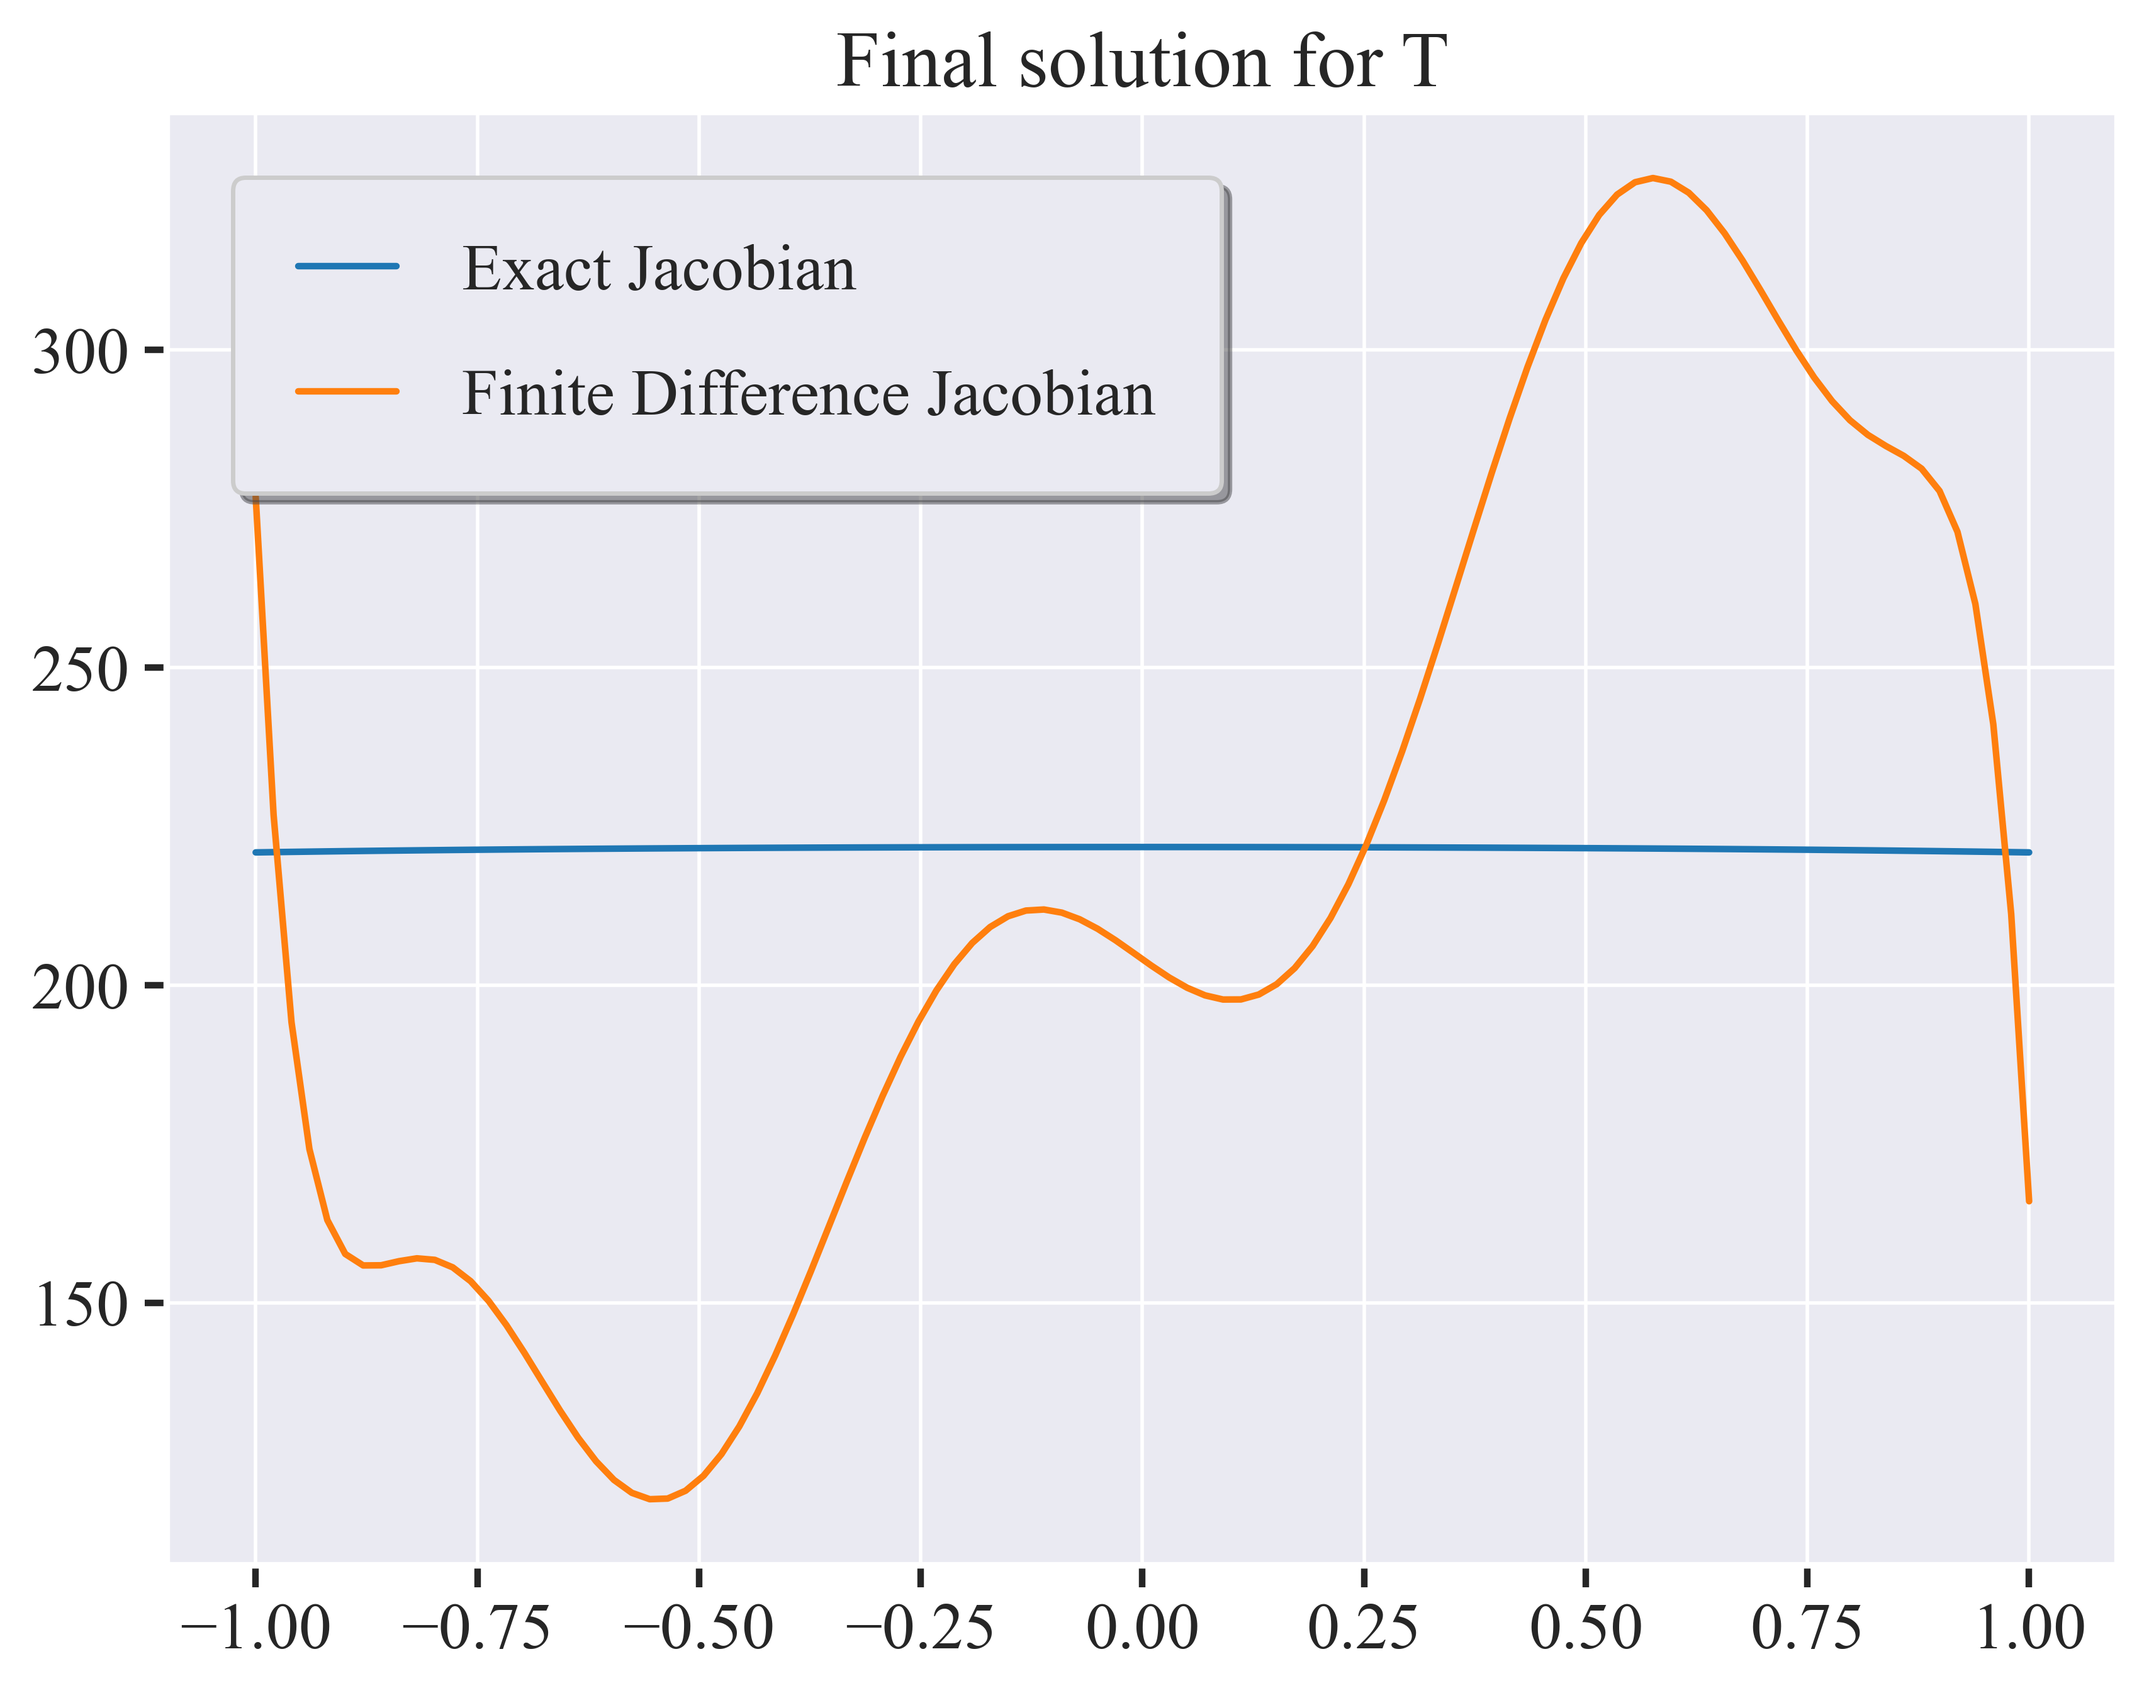
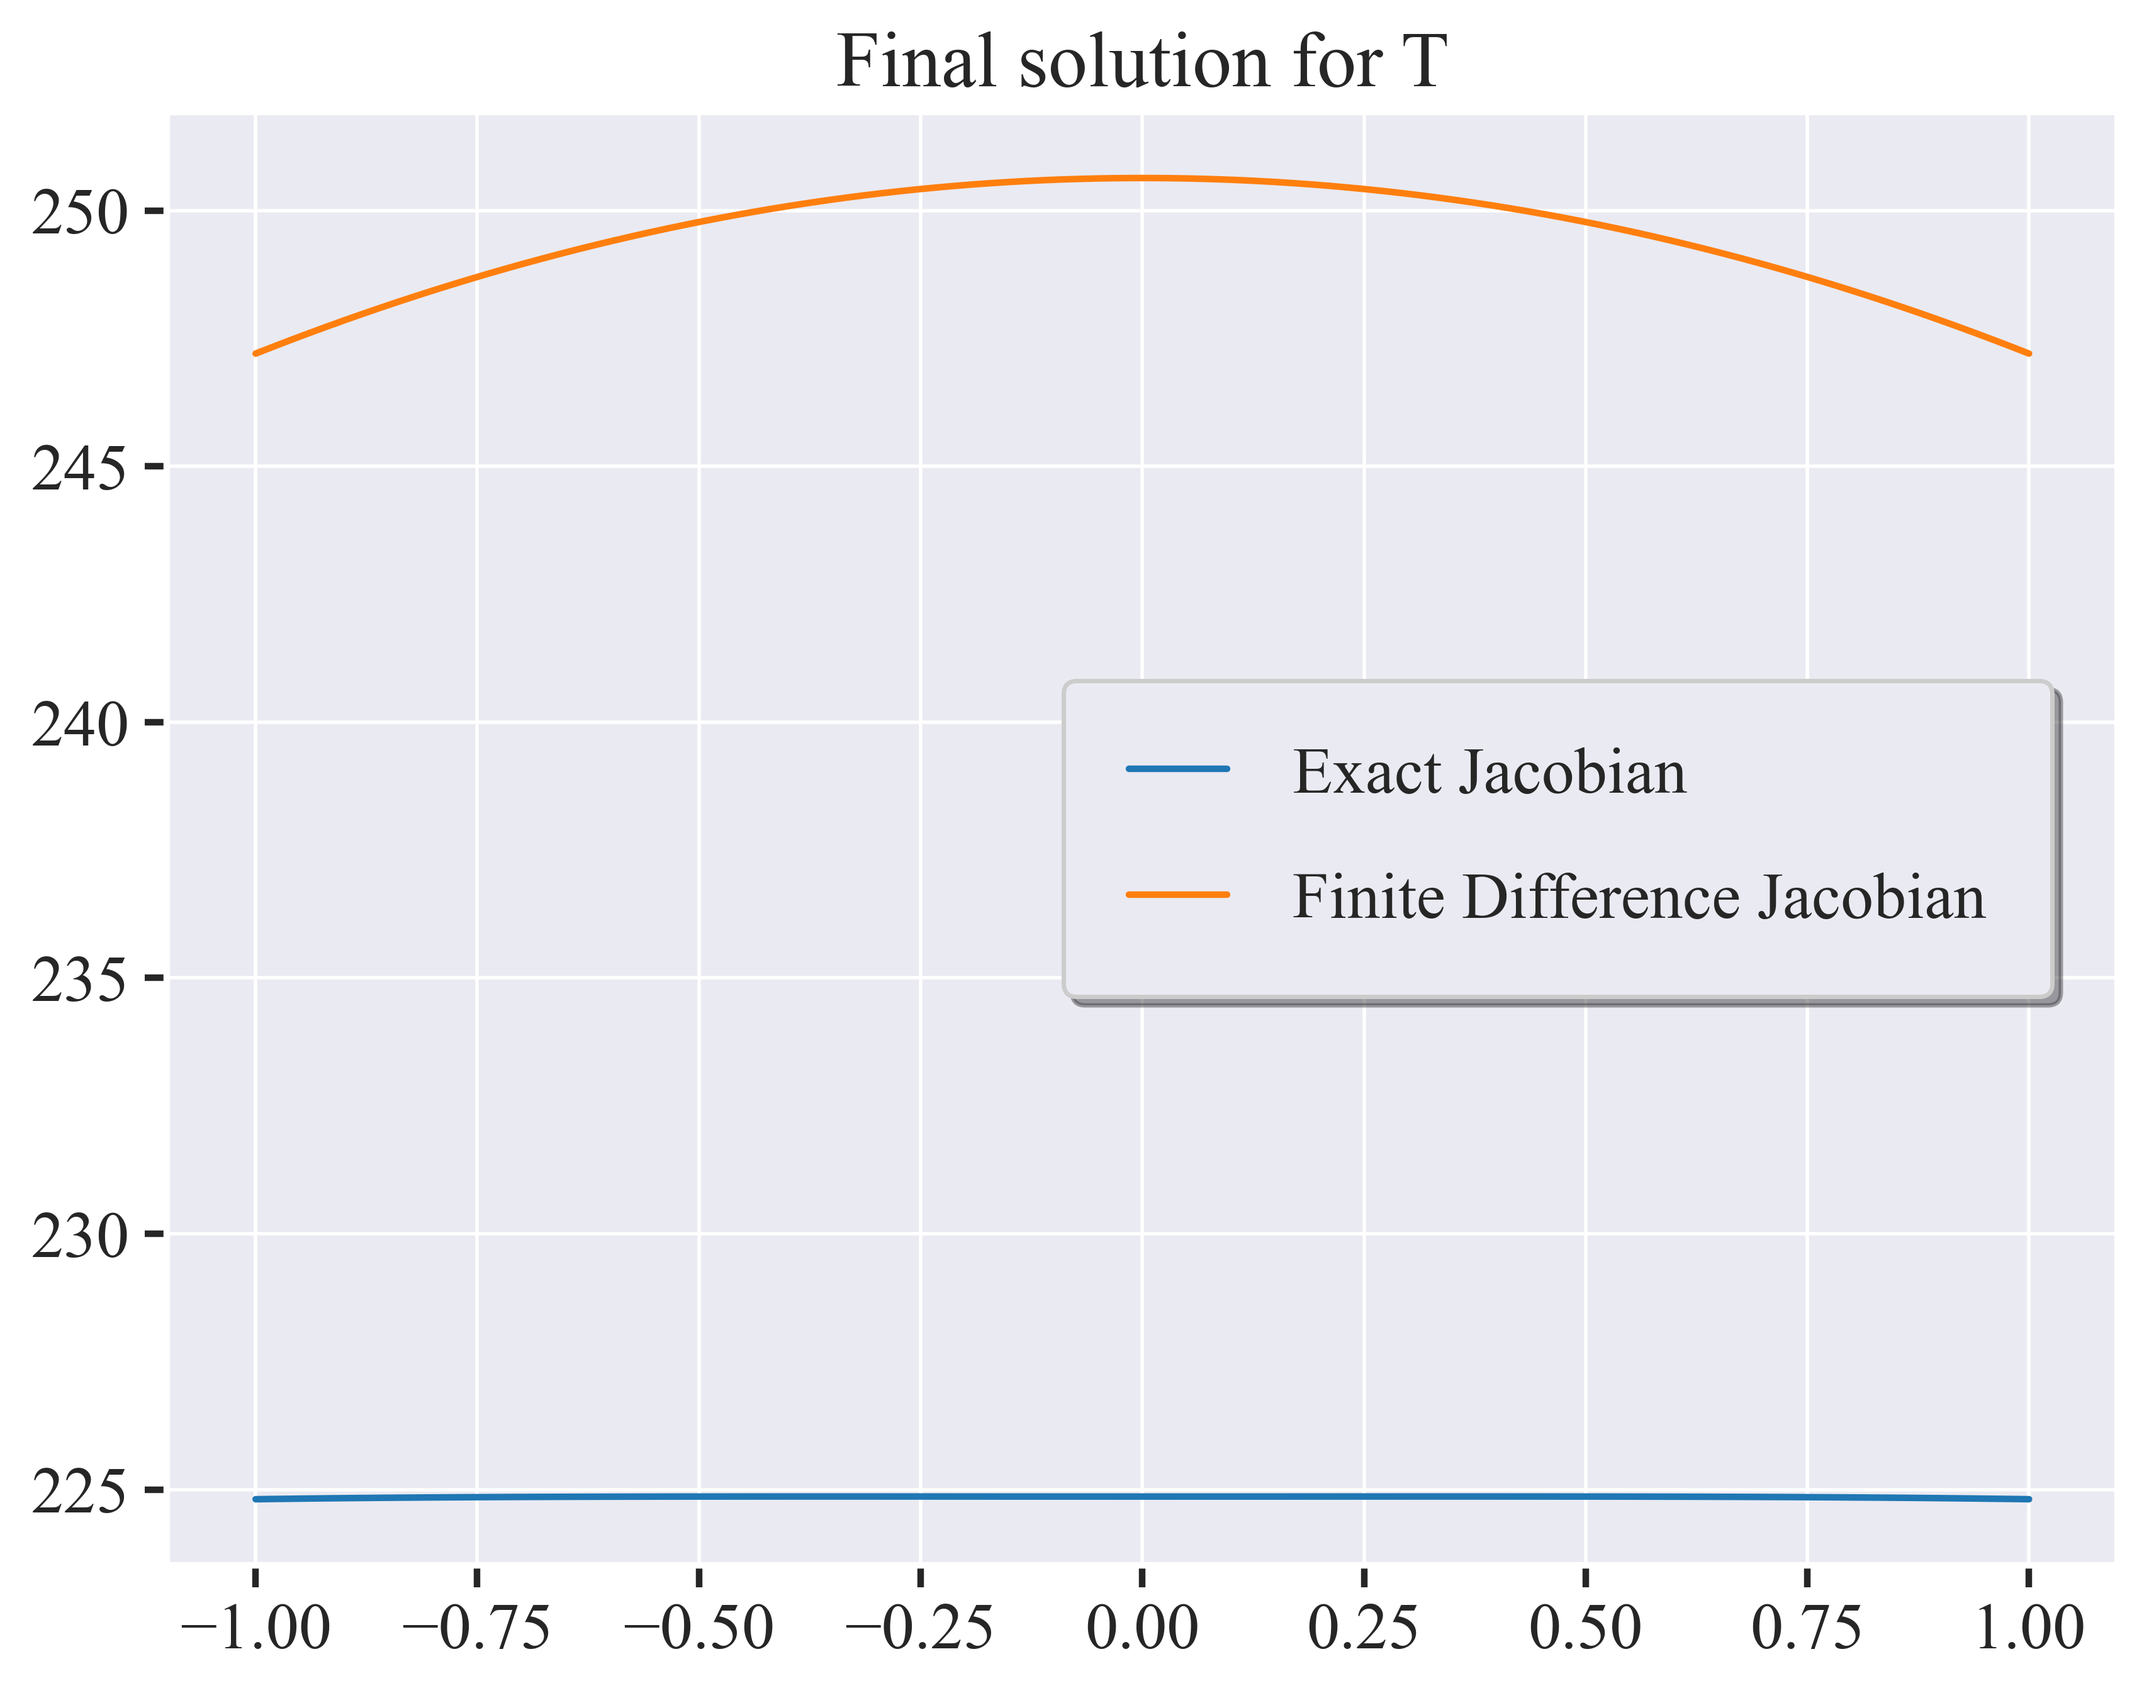
FIXED NUMERICAL JACOBIAN

diff --git a/code/classes/ebm.py b/code/classes/ebm.py
@@ -140,13 +140,12 @@ class EBM(NonLinearSystem):
         --------
         np.ndarray: matrix such that out[i,j] = (F(T(a_i + h))[j] - F(T)[j]) / h
         """
-        T_coeffs_plus_h = self.T_coeffs[:,None] * np.ones(
-            (self.n_polys, self.n_polys)
-        ) + h * np.eye(self.n_polys)
+        T_coeffs_plus_h = self.T_coeffs + h * np.eye(self.n_polys)
         T_plus_h = T_coeffs_plus_h @ self.legendre_polys
         integrand = (
-            self.energy_balance(T_plus_h) - self.energy_balance(self.T_eval())
-        ) / h
+            self.energy_balance(T_plus_h, T_coeffs_plus_h)
+            - self.energy_balance(self.T_eval())
+        ) / h  # [EBM(x, T(a + e_i*h)) - EBM(x, T)] / h
         test_function = self.legendre_polys
         return np.einsum("is,js->ijs", integrand, test_function) @ self.quad_weights
 
@@ -157,8 +156,8 @@ class EBM(NonLinearSystem):
         self.T_coeffs += update
 
     ######## Energy balance terms ########
-    def energy_balance(self, T: np.ndarray) -> np.ndarray:
-        return self.R_D() + self.R_A(self.quad_samples, T) - self.R_E(T)
+    def energy_balance(self, T: np.ndarray, T_coeffs: np.ndarray = None) -> np.ndarray:
+        return self.R_D(T_coeffs) + self.R_A(self.quad_samples, T) - self.R_E(T)
 
     def energy_balance_derivative(self, T: np.ndarray) -> np.ndarray:
         """
@@ -182,17 +181,11 @@ class EBM(NonLinearSystem):
 
     # solar radiation (R_A)
     def R_A(self, x: np.ndarray, T: np.ndarray) -> np.ndarray:
-        # return EBM.Q_solar(x) * (1 - EBM.albedo(T)) + self.mu
-        out = EBM.Q_solar(x) * (1 - EBM.albedo(T)) + self.mu
-        # return np.zeros_like(out)
-        return out
+        return EBM.Q_solar(x) * (1 - EBM.albedo(T)) + self.mu
 
     @staticmethod
     def dR_A(x: np.ndarray, T: np.ndarray) -> np.ndarray:
-        # return EBM.Q_solar(x) * EBM.dalbedo(T)
-        out = EBM.Q_solar(x) * EBM.dalbedo(T)
-        # return np.zeros_like(out)
-        return out
+        return EBM.Q_solar(x) * EBM.dalbedo(T)
 
     @staticmethod
     def Q_solar(x: np.ndarray) -> np.ndarray:
@@ -208,23 +201,17 @@ class EBM(NonLinearSystem):
     def dalbedo(T: np.ndarray) -> np.ndarray:
         return EBM.M * (EBM.a_2 - EBM.a_1) / (2 * np.cos(EBM.M * (T - EBM.T_star)) ** 2)
 
-    @staticmethod
     # Black body radiation (R_E)
+    @staticmethod
     def R_E(T: np.ndarray) -> np.ndarray:
-        # return EBM.epsilon_0 * EBM.sigma_0 * T**4
-        out = EBM.epsilon_0 * EBM.sigma_0 * T**4
-        # return np.zeros_like(out)
-        return out
+        return EBM.epsilon_0 * EBM.sigma_0 * T**4
 
     @staticmethod
     def dR_E(T: np.ndarray) -> np.ndarray:
-        # return 4 * EBM.epsilon_0 * EBM.sigma_0 * T**3
-        out = 4 * EBM.epsilon_0 * EBM.sigma_0 * T**3
-        # return np.zeros_like(out)
-        return out
+        return 4 * EBM.epsilon_0 * EBM.sigma_0 * T**3
 
     # dispersion & legendre polynomials
-    def R_D(self) -> np.ndarray:
+    def R_D(self, T_coeffs: np.ndarray = None) -> np.ndarray:
         """
         Evaluate the dispersion term using the coefficients and eigenvalues
         of the respective Legendre polynomials.
@@ -234,7 +221,9 @@ class EBM(NonLinearSystem):
         np.ndarray (m,): The dispersion term evaluated for the current T_coeffs
             and at the m quad_sample points.
         """
-        return (self.legendre_eigs / self.D * self.T_coeffs) @ self.legendre_polys
+        if T_coeffs is None:
+            T_coeffs = self.T_coeffs
+        return (self.legendre_eigs / self.D * T_coeffs) @ self.legendre_polys
 
     def dR_D(self) -> np.ndarray:
         """

diff --git a/code/ebm_experiments.py b/code/ebm_experiments.py
@@ -16,7 +16,7 @@ print(f"Output directory:\n  {output_dir}")
 pyutils.set_style()
 
 ############### Computation parameters ####################
-n = 10  # number of Legendre polynomials
+n = 5  # number of Legendre polynomials
 number_of_quad_points = 2 * n  # number of quadrature points
 grid_resolution = 100  # resolution of the grid
 initial_temperature = (
@@ -42,26 +42,43 @@ plt.savefig(fn, dpi=500)
 print("Saved initial guess for T to:\n  ", fn)
 
 ################### Newton-Raphson Method ####################
-rootfinding = RootFinding(maxiter=1)
+rootfinding = RootFinding(maxiter=1000)
 
 # run Newton-Raphson method
 errors = rootfinding.newtonRaphson(ebm)
 T_final_exact = ebm.T_x(ebm.x)
+conv_exact = rootfinding.converged
 
 # run Newton-Raphson method with finite difference
 ebm.T_coeffs = np.zeros(n)
 ebm.T_coeffs[0] = initial_temperature
 errors_fd = rootfinding.newtonRaphson(ebm, exact=False, stepsize=1e3)
 T_final_fd = ebm.T_x(ebm.x)
+conv_fd = rootfinding.converged
 
 # plot error convergence
 plt.close()
-plt.plot(errors)
-plt.plot(errors_fd)
+plt.plot(errors, label="Exact Jacobian")
+if conv_exact: 
+    marker = 'rx'
+    label = "convergence" 
+else: 
+    marker = 'ro'
+    label = "no convergence"
+plt.plot(len(errors), errors[-1], marker, label=label)
+plt.plot(errors_fd, label="Finite Difference Jacobian")
+if conv_fd: 
+    marker = 'rx'
+    label = "convergence" 
+else: 
+    marker = 'ro'
+    label = "no convergence"
+plt.plot(len(errors_fd), errors_fd[-1], marker, label=label)
 plt.title("Error convergence")
 plt.xlabel("Iteration")
 plt.ylabel("Error")
-plt.yscale("log")
+# plt.yscale("log")
+plt.legend()
 fn = output_dir / "error_convergence.png"
 plt.savefig(fn, dpi=500)
 print("Saved error convergence to:\n  ", fn)
@@ -81,12 +98,12 @@ stepsizes = np.logspace(-3, 7, 100)
 errors = []
 ebm.T_coeffs = np.zeros(n)
 ebm.T_coeffs[0] = initial_temperature
-_ = rootfinding.newtonRaphson(ebm) # find equilibrium solution
+_ = rootfinding.newtonRaphson(ebm)  # find equilibrium solution
 jacobian_exact = ebm.evaluate_derivative()
 print("Running finite difference jacobian approximation analysis...")
 for h in stepsizes:
     jacobian_fd = ebm.evaluate_derivative_finite_difference(h)
-    error = np.linalg.norm(jacobian_exact-jacobian_fd, ord='fro')
+    error = np.linalg.norm(jacobian_exact - jacobian_fd, ord=2)
     errors.append(error)
 
 plt.close()

diff --git a/code/classes/root_finding.py b/code/classes/root_finding.py
@@ -8,6 +8,7 @@ class RootFinding:
     def __init__(self, tolerance: float = 1e-5, maxiter: int = 100) -> None:
         self.tolerance = tolerance
         self.maxiter = maxiter
+        self.converged = False
 
     def newtonRaphson(
         self, NLS: NonLinearSystem, exact: bool = True, stepsize: float = 1e-6
@@ -38,7 +39,7 @@ class RootFinding:
                 dF = NLS.evaluate_derivative()
             else:
                 dF = NLS.evaluate_derivative_finite_difference(stepsize)
-            print(dF)
+            # print(dF)
             update = np.linalg.solve(dF, F)
             NLS.update_solution(-update)
 
@@ -51,9 +52,13 @@ class RootFinding:
 
         if error <= self.tolerance:
             pbar.close()
+            self.converged = True
             print("Newton-Raphson converged.")
 
         return errors
+    
+    def broydensMethod() -> None:
+        pass
 
     def arcLength() -> None:
         pass
